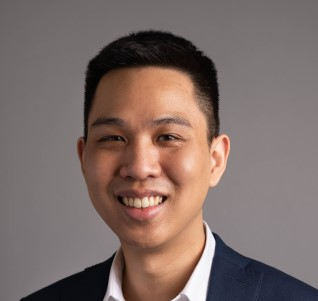
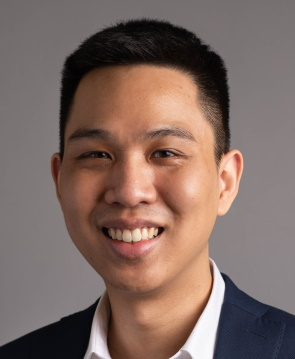
.

diff --git a/index.md b/index.md
@@ -58,9 +58,13 @@ feature_row4:
     btn_class: "btn--primary"
 ---
 
-![biophoto](/assets/images/bio-photo2.jpg)
+![biophoto](/assets/images/bio-photo-small.jpg)
 
-About Me
+# About Me
+
+## Alex Li
+
+"Teacher turned data scientist passionate about coding and it's applications."
 
 {% include feature_row id="intro" type="left" %}
 ## Portfolio Projects
